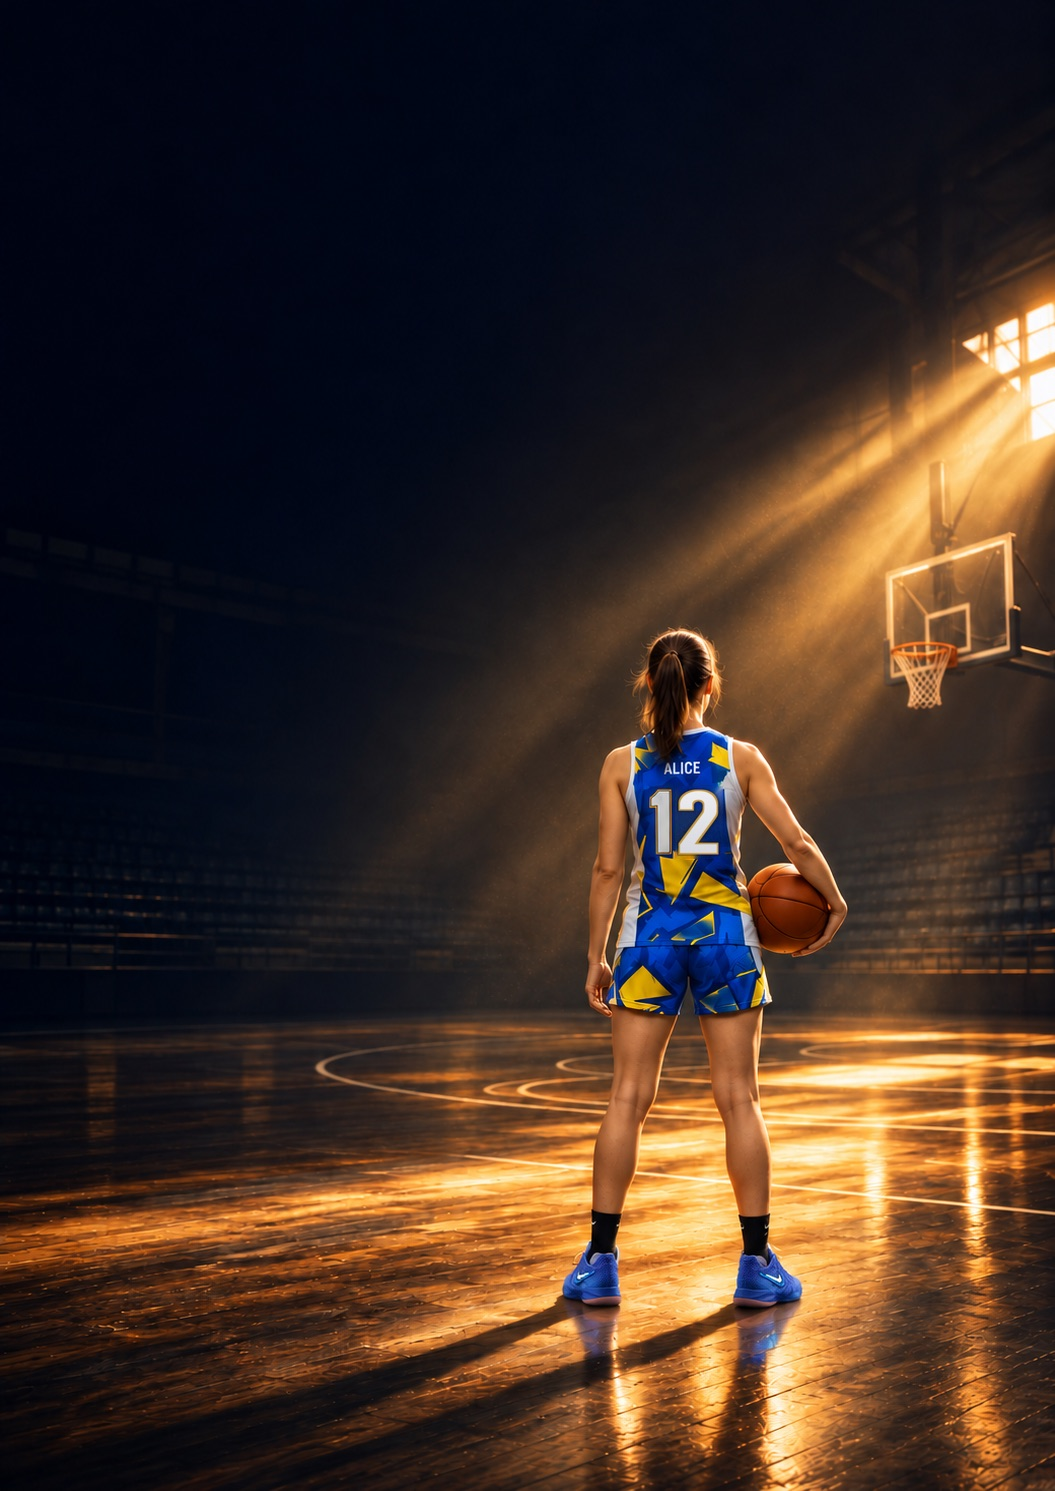
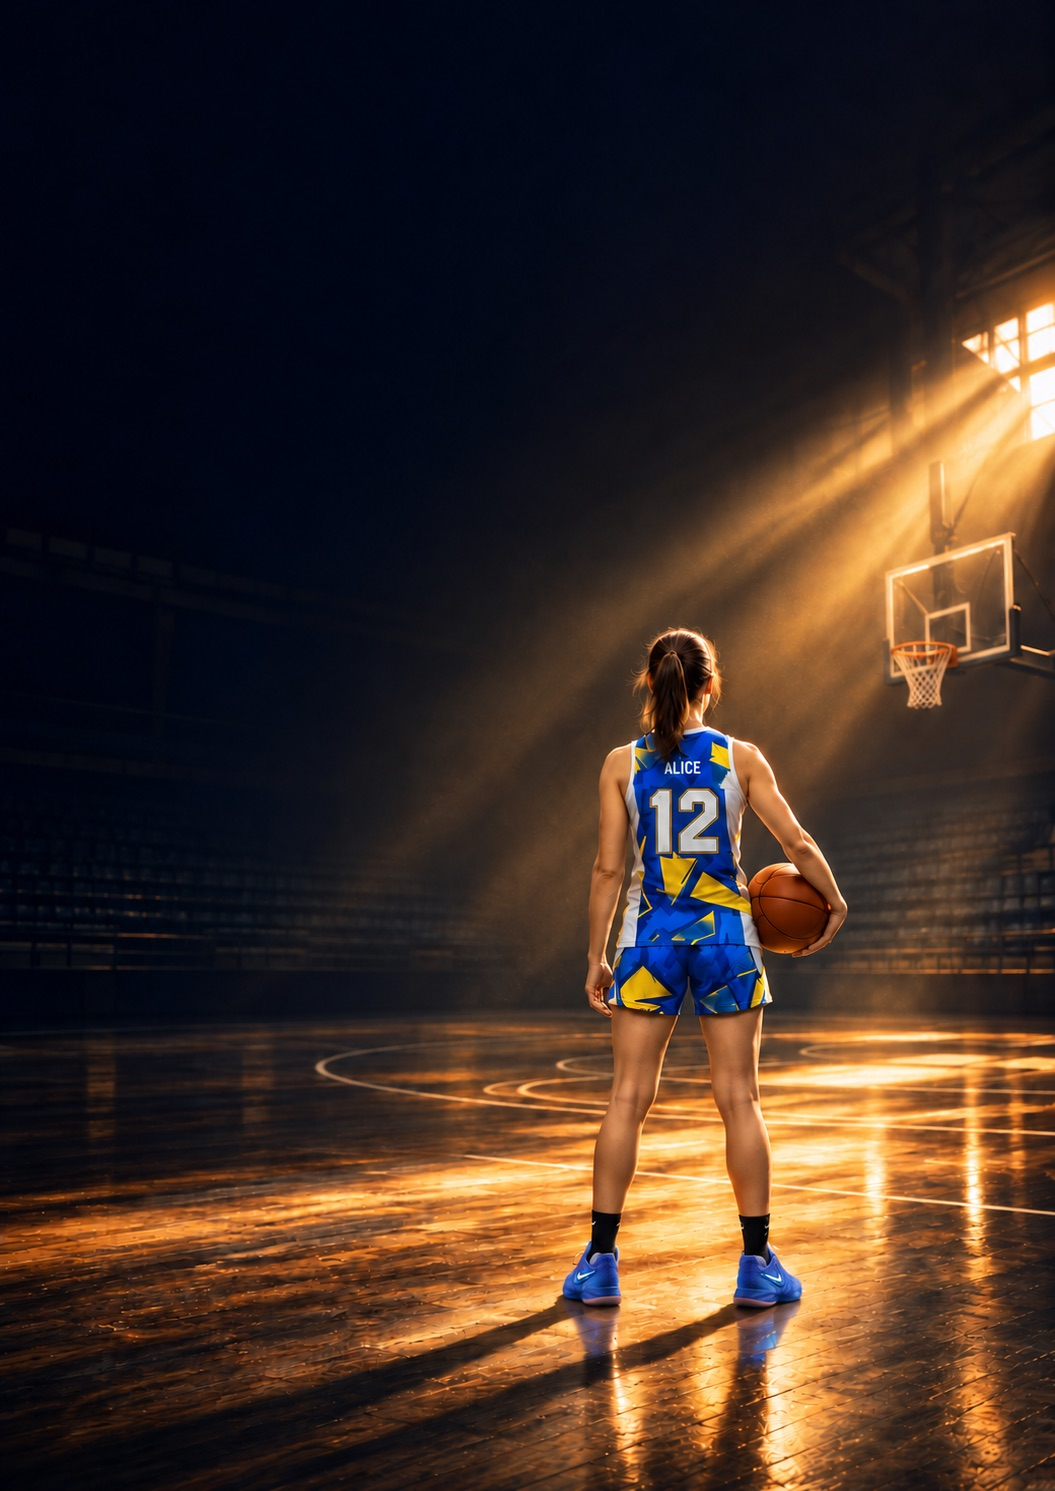
Nouvelle photo de fond : Alice 12, image refaite
Remplace la photo retouchée par l'image régénérée par Matthieu, avec le
maillot ALICE 12 d'origine (fond d'écran et bibliothèque).

diff --git a/sw.js b/sw.js
@@ -1,4 +1,4 @@
-const V='alice-v16';
+const V='alice-v17';
 const CORE=["./", "index.html", "manifest.webmanifest", "ffbb.json", "icons/icon-192.png", "icons/icon-512.png", "icons/apple-touch-icon.png", "img/affiche.jpg", "img/duo.jpg", "img/lun-1.jpg", "img/lun-2.jpg", "img/lun-3.jpg", "img/lun-4.jpg", "img/mar-1.jpg", "img/mar-2.jpg", "img/mar-3.jpg", "img/mar-4.jpg", "img/mar-5.jpg", "img/mar-6.jpg", "img/mar-7.jpg", "img/ombre.jpg", "img/sam-1.jpg", "img/sam-2.jpg", "img/sam-3.jpg", "img/sam-4.jpg", "img/sam-5.jpg", "img/sam-6.jpg"];
 self.addEventListener('install',e=>{e.waitUntil(caches.open(V).then(c=>c.addAll(CORE)).then(()=>self.skipWaiting()))});
 self.addEventListener('activate',e=>{e.waitUntil(caches.keys().then(k=>Promise.all(k.filter(x=>x!==V).map(x=>caches.delete(x)))).then(()=>self.clients.claim()))});
